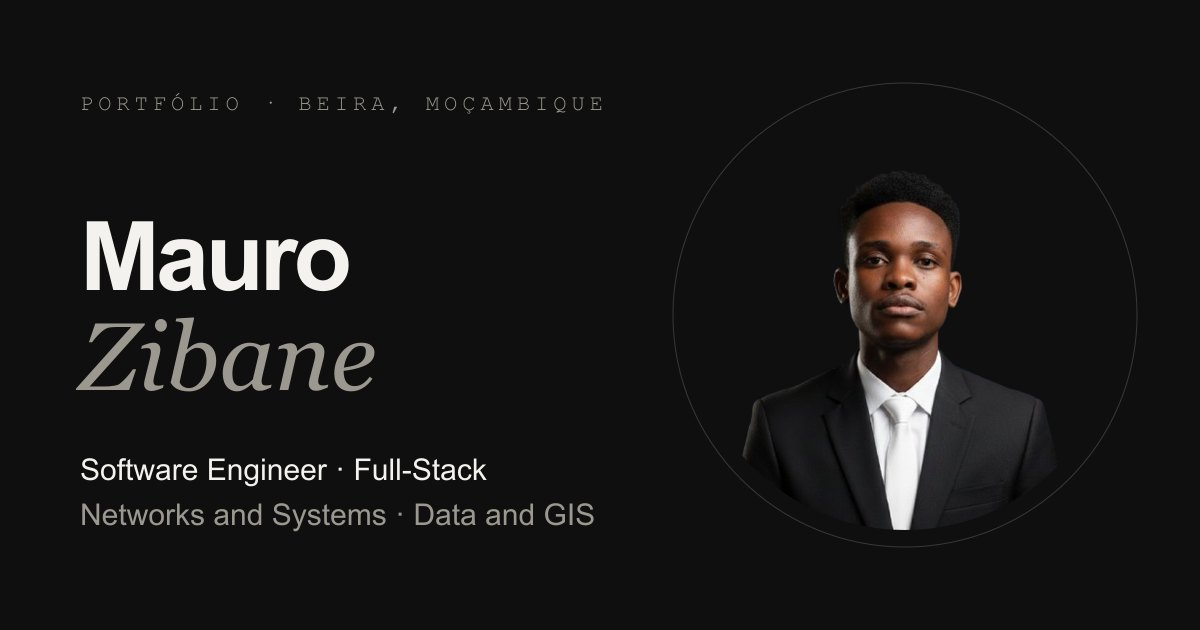
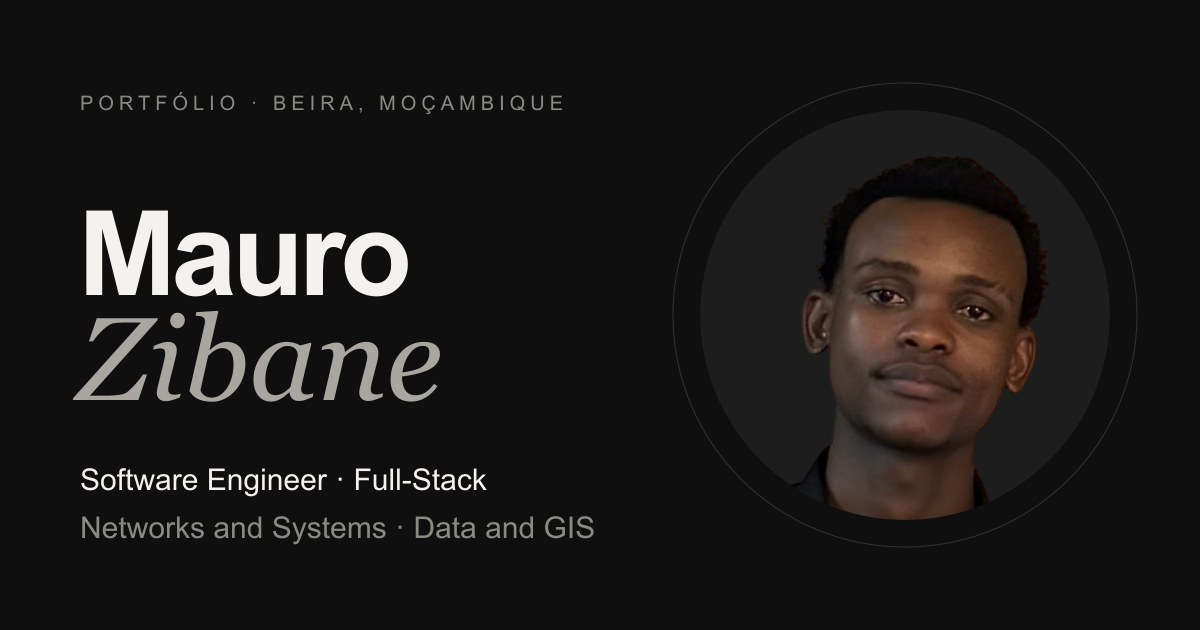
Troca a foto de perfil em todo o portefólio
- Nova foto (perfil.webp, com fundo transparente) no hero, cabeçalho, cartão ID, chatbot, rodapé e passagens
- Ícones do separador e da app com a nova foto sobre fundo escuro
- Imagem de partilha (og.jpg) refeita com a nova foto
- Foto antiga retirada de public

diff --git a/index.html b/index.html
@@ -2,12 +2,12 @@
 <html lang="en">
   <head>
     <meta charset="UTF-8" />
-    <link rel="icon" type="image/png" href="/profile10.png" />
-    <link rel="apple-touch-icon" href="/profile10.png" />
-    <link rel="icon" type="image/png" sizes="16x16" href="/profile10.png" />
-    <link rel="icon" type="image/png" sizes="32x32" href="/profile10.png" />
-    <link rel="icon" type="image/png" sizes="96x96" href="/profile10.png" />
-    <link rel="icon" type="image/png" sizes="192x192" href="/profile10.png" />
+    <link rel="icon" type="image/png" href="/icon-64.png" />
+    <link rel="apple-touch-icon" href="/icon-192.png" />
+    <link rel="icon" type="image/png" sizes="16x16" href="/icon-64.png" />
+    <link rel="icon" type="image/png" sizes="32x32" href="/icon-64.png" />
+    <link rel="icon" type="image/png" sizes="96x96" href="/icon-64.png" />
+    <link rel="icon" type="image/png" sizes="192x192" href="/icon-192.png" />
     <meta name="viewport" content="width=device-width, initial-scale=1.0" />
     <meta name="description" content="Portfolio of Mauro Zibane, a Mozambican Software Engineer specialized in Full-Stack development, Systems and Network Administration, and Data and GIS. Discover his projects, skills, and professional background."/>
     <meta name="keywords" content="Software Development, Portfolio, Software Engineering, Programming, Technology, Innovation, Web Development, Mobile Development, GIS, Data, Mozambique" />

diff --git a/src/components/LanyardCard.tsx b/src/components/LanyardCard.tsx
@@ -97,7 +97,7 @@ export default function LanyardCard() {
               </div>
               <div className="flex flex-1 flex-col items-center px-6 pt-5">
                 <div className="grid h-[148px] w-[124px] place-items-center rounded-full border border-foreground/15 bg-secondary p-1 shadow-[0_0_0_6px_hsl(var(--secondary))]">
-                  <img src="/profile10.png" alt={t('about.name')} className="h-[140px] w-[116px] rounded-full object-cover transition-transform duration-700 hover:scale-105" />
+                  <img src="/perfil.webp" alt={t('about.name')} className="h-[140px] w-[116px] rounded-full object-cover transition-transform duration-700 hover:scale-105" />
                 </div>
                 <p className="mt-4 text-center text-xl font-bold leading-tight tracking-tight">{t('about.name')}</p>
                 <p className="mt-1 text-center text-[11px] leading-snug text-muted-foreground">{t('about.role')}</p>

diff --git a/src/components/Navbar.tsx b/src/components/Navbar.tsx
@@ -124,7 +124,7 @@ export default function Navbar() {
         >
           <a href="#inicio" className="group flex items-center gap-3 pl-1 pr-2" aria-label="Mauro Zibane">
             <span className="relative grid h-11 w-11 place-items-center overflow-hidden rounded-full border border-foreground/20 transition-transform duration-700 group-hover:rotate-[360deg]" style={{ transitionTimingFunction: 'var(--ease)' }}>
-              <img src="/profile10.png" alt="" className="h-full w-full object-cover" />
+              <img src="/perfil.webp" alt="" className="h-full w-full object-cover object-top" />
             </span>
             <span className="hidden leading-tight sm:block">
               <span className="block text-sm font-bold tracking-tight">Mauro Zibane</span>

diff --git a/src/sections/Footer.tsx b/src/sections/Footer.tsx
@@ -30,7 +30,7 @@ export default function Footer() {
         <div className="grid gap-12 lg:grid-cols-[minmax(0,5fr)_minmax(0,3fr)_minmax(0,4fr)]">
           <div>
             <a href="#inicio" className="inline-flex items-center gap-3">
-              <img src="/profile10.png" alt="" className="h-12 w-12 rounded-full border border-foreground/15 object-cover" />
+              <img src="/perfil.webp" alt="" className="h-12 w-12 rounded-full border border-foreground/15 object-cover object-top" />
               <span className="text-lg font-bold tracking-tight">Mauro Zibane</span>
             </a>
             <p className="mt-6 max-w-sm text-2xl leading-snug tracking-tight">

diff --git a/src/sections/Hero.tsx b/src/sections/Hero.tsx
@@ -36,7 +36,7 @@ export default function Hero() {
             <span aria-hidden="true" className="absolute -inset-[6%] rounded-full border border-dashed border-foreground/20" />
             <span className="absolute inset-0 overflow-hidden rounded-full border border-foreground/25 bg-card shadow-[0_40px_100px_-40px_rgba(0,0,0,0.5)]">
               <img
-                src="/profile10.png"
+                src="/perfil.webp"
                 alt={t('hero.photoAlt')}
                 className="h-full w-full object-cover object-top transition-transform duration-[1200ms] group-hover:scale-105"
                 style={{ transitionTimingFunction: 'var(--ease)' }}

diff --git a/src/components/Chatbot.tsx b/src/components/Chatbot.tsx
@@ -56,7 +56,7 @@ export default function Chatbot() {
 
             <div className="flex items-center gap-3">
               <span className="relative">
-                <img src="/profile10.png" alt="" className="h-12 w-12 rounded-full border border-foreground/15 object-cover" />
+                <img src="/perfil.webp" alt="" className="h-12 w-12 rounded-full border border-foreground/15 object-cover object-top" />
                 <span className="absolute -bottom-0.5 -right-0.5 h-3.5 w-3.5 rounded-full border-2 border-card bg-foreground" />
               </span>
               <p className="mz-tag">{t('popup.eyebrow')}</p>

diff --git a/src/sections/Bridges.tsx b/src/sections/Bridges.tsx
@@ -25,7 +25,7 @@ export function ToSkills() {
       items={skills}
       a={t('bridge.skillsA')}
       b={t('bridge.skillsB')}
-      back={{ items: [{ kind: 'photo', src: '/profile10.png' }, ...about, ...about], a: t('bridge.backAboutA'), b: t('bridge.backAboutB') }}
+      back={{ items: [{ kind: 'photo', src: '/perfil.webp' }, ...about, ...about], a: t('bridge.backAboutA'), b: t('bridge.backAboutB') }}
     />
   );
 }
